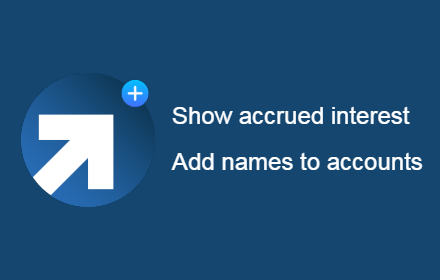
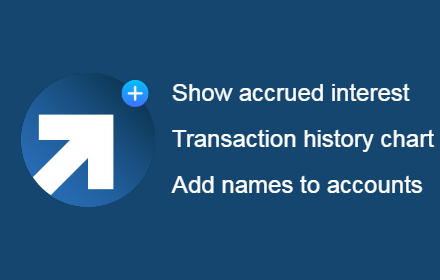
Updated marketing material

Changed region(s): [[0.3841, 0.2857, 1.0, 0.7143]]

diff --git a/src/testdata/chart.ts b/src/testdata/chart.ts
@@ -1,0 +1,34 @@
+
+export const chartTestData =
+    [
+        {
+            time: new Date("2024-02-01").toISOString().split("T")[0],
+            value: 20,
+            action: "PAY IN"
+        },
+        {
+            time: new Date("2024-04-01").toISOString().split("T")[0],
+            value: 20.13,
+            action: "INTEREST BOOKING"
+        },
+        {
+            time: new Date("2024-04-12").toISOString().split("T")[0],
+            value: 150.13,
+            action: "DEPOSIT"
+        },
+        {
+            time: new Date("2024-04-29").toISOString().split("T")[0],
+            value: 650.13,
+            action: "DEPOSIT"
+        },
+        {
+            time: new Date("2024-05-06").toISOString().split("T")[0],
+            value: 950.13,
+            action: "DEPOSIT"
+        },
+        {
+            time: new Date("2024-06-02").toISOString().split("T")[0],
+            value: 1210.13,
+            action: "DEPOSIT"
+        }
+    ]
